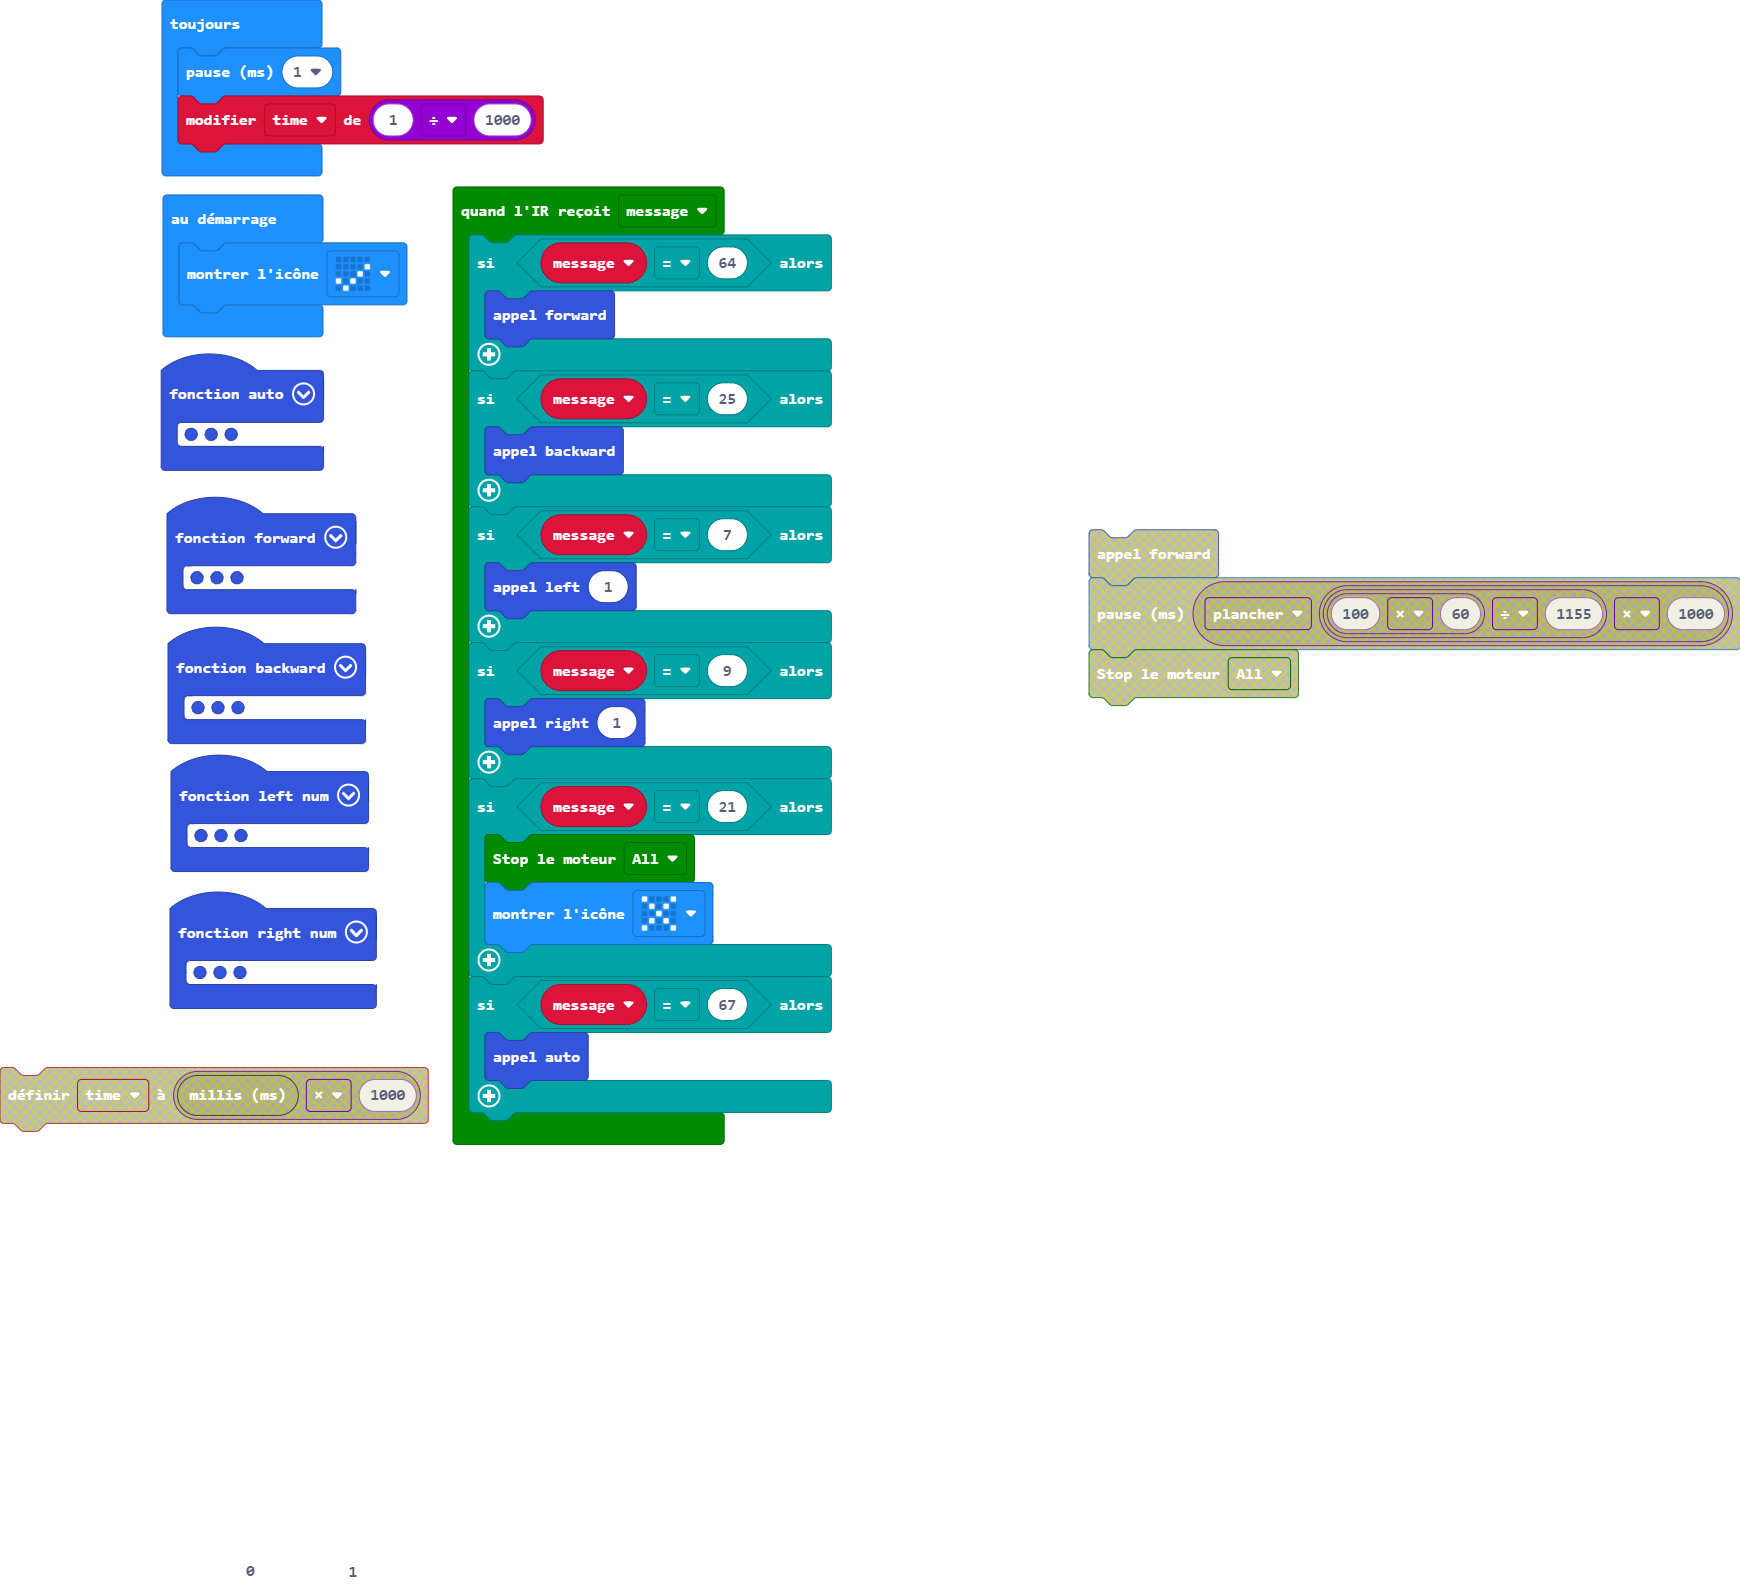
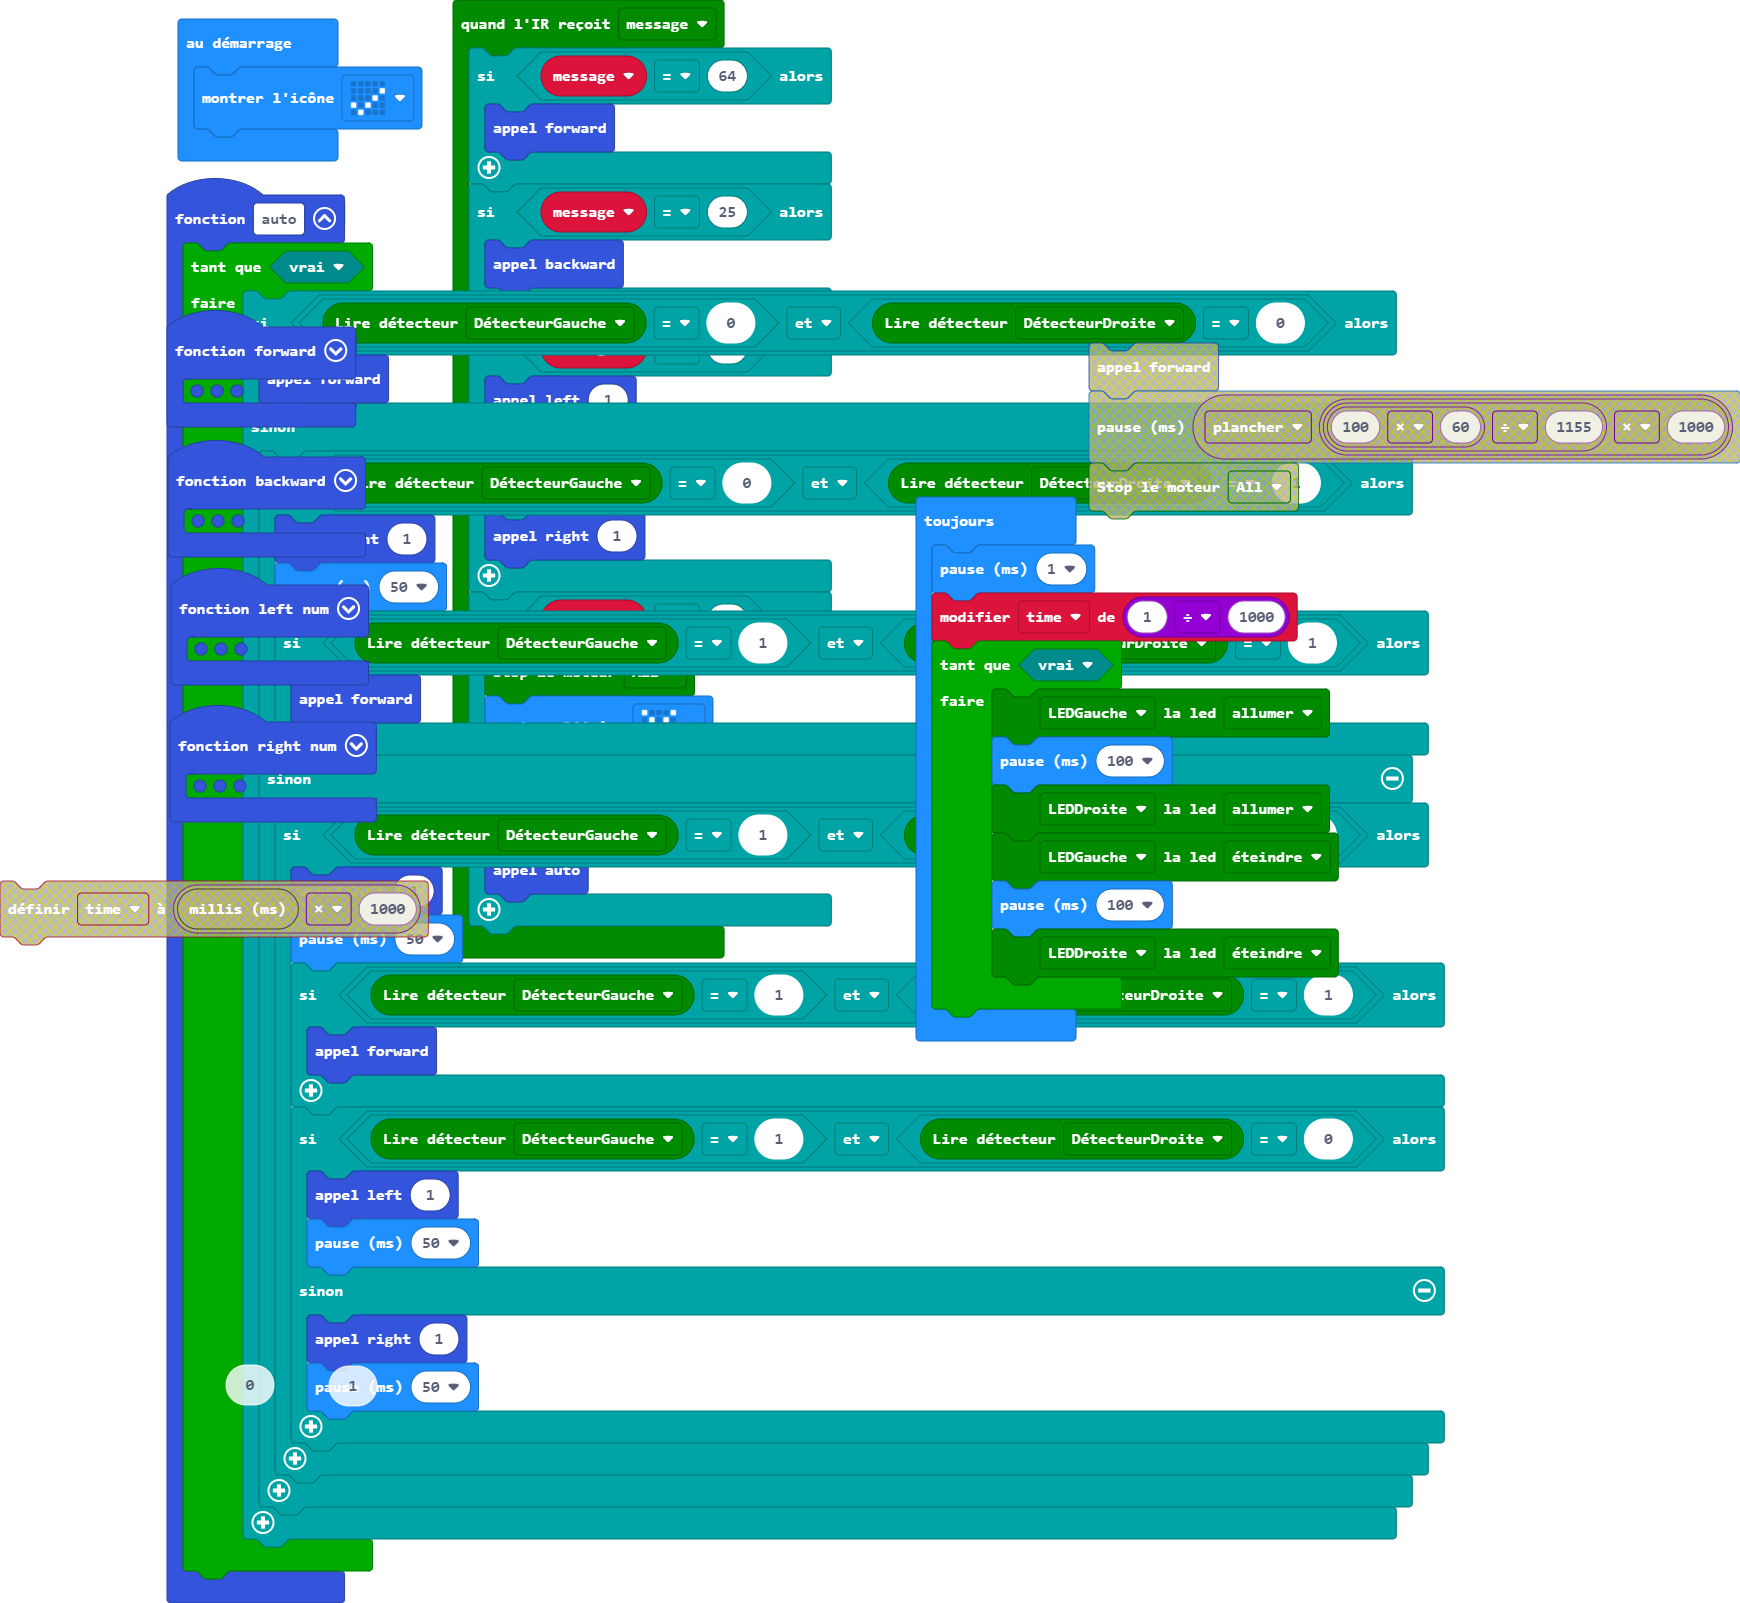
Mise à jour main.blocks, main.ts

diff --git a/main.ts b/main.ts
@@ -32,24 +32,30 @@ function backward () {
         `)
 }
 function auto () {
-    if (maqueen.readPatrol(maqueen.Patrol.PatrolLeft) == 0 && maqueen.readPatrol(maqueen.Patrol.PatrolRight) == 0) {
-        forward()
-    } else {
-        if (maqueen.readPatrol(maqueen.Patrol.PatrolLeft) == 0 && maqueen.readPatrol(maqueen.Patrol.PatrolRight) == 1) {
-            left(1)
-            if (maqueen.readPatrol(maqueen.Patrol.PatrolLeft) == 1 && maqueen.readPatrol(maqueen.Patrol.PatrolRight) == 1) {
-                left(1)
-            }
+    while (true) {
+        if (maqueen.readPatrol(maqueen.Patrol.PatrolLeft) == 0 && maqueen.readPatrol(maqueen.Patrol.PatrolRight) == 0) {
+            forward()
         } else {
-            if (maqueen.readPatrol(maqueen.Patrol.PatrolLeft) == 1 && maqueen.readPatrol(maqueen.Patrol.PatrolRight) == 0) {
+            if (maqueen.readPatrol(maqueen.Patrol.PatrolLeft) == 0 && maqueen.readPatrol(maqueen.Patrol.PatrolRight) == 1) {
                 right(1)
+                basic.pause(50)
                 if (maqueen.readPatrol(maqueen.Patrol.PatrolLeft) == 1 && maqueen.readPatrol(maqueen.Patrol.PatrolRight) == 1) {
-                    right(1)
+                    forward()
                 }
+            } else {
                 if (maqueen.readPatrol(maqueen.Patrol.PatrolLeft) == 1 && maqueen.readPatrol(maqueen.Patrol.PatrolRight) == 0) {
-                    maqueen.motorRun(maqueen.Motors.M1, maqueen.Dir.CW, 255)
-                } else {
-                    maqueen.motorRun(maqueen.Motors.M2, maqueen.Dir.CW, 0)
+                    left(1)
+                    basic.pause(50)
+                    if (maqueen.readPatrol(maqueen.Patrol.PatrolLeft) == 1 && maqueen.readPatrol(maqueen.Patrol.PatrolRight) == 1) {
+                        forward()
+                    }
+                    if (maqueen.readPatrol(maqueen.Patrol.PatrolLeft) == 1 && maqueen.readPatrol(maqueen.Patrol.PatrolRight) == 0) {
+                        left(1)
+                        basic.pause(50)
+                    } else {
+                        right(1)
+                        basic.pause(50)
+                    }
                 }
             }
         }
@@ -92,4 +98,12 @@ basic.showIcon(IconNames.Yes)
 basic.forever(function () {
     basic.pause(1)
     time += 1 / 1000
+    while (true) {
+        maqueen.writeLED(maqueen.LED.LEDLeft, maqueen.LEDswitch.turnOn)
+        basic.pause(100)
+        maqueen.writeLED(maqueen.LED.LEDRight, maqueen.LEDswitch.turnOn)
+        maqueen.writeLED(maqueen.LED.LEDLeft, maqueen.LEDswitch.turnOff)
+        basic.pause(100)
+        maqueen.writeLED(maqueen.LED.LEDRight, maqueen.LEDswitch.turnOff)
+    }
 })
